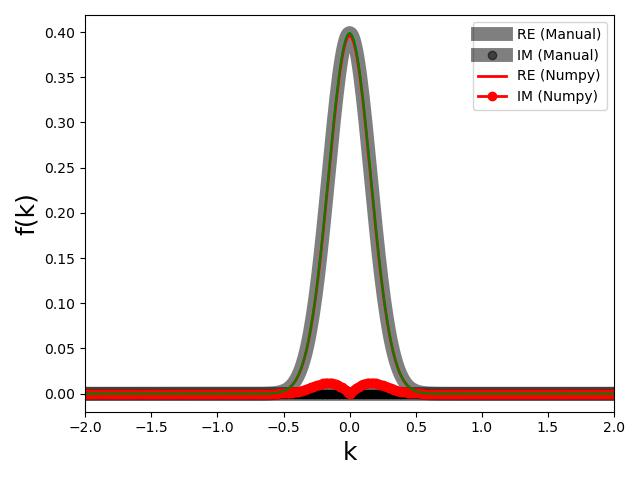
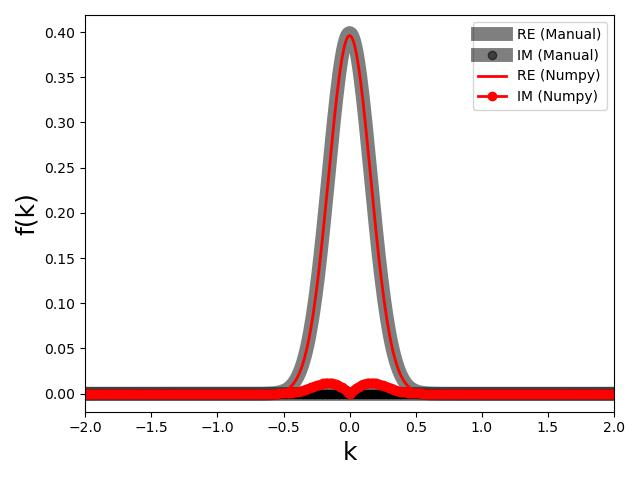
Added clean figures

diff --git a/notes/codes/Chapter_4/1_Fourier_Transform_on_a_Discrete_Grid.py b/notes/codes/Chapter_4/1_Fourier_Transform_on_a_Discrete_Grid.py
@@ -119,6 +119,8 @@ def get_numpy_FT( f_x ):
     return k, f_k
 
 def plot_f_k(k,f_k,k_np,f_k_np,title):
+
+    # Plot a version comparing directly to Numpy
     plt.plot( k, np.abs(f_k.real), "-", c='black', lw=10, alpha=0.5, label="RE (Manual)" )
     plt.plot( k, np.abs(f_k.imag), "o-", c='black', lw=10, alpha=0.5, label="IM (Manual)" )
 
@@ -135,6 +137,24 @@ def plot_f_k(k,f_k,k_np,f_k_np,title):
     plt.tight_layout()
     plt.savefig(f"{DATA_DIR}/f_k_{title}.jpg")
     plt.clf()
+
+
+    # Plot a ''clean'' one without comparing to Numpy
+    plt.plot( k, f_k.real, "-", c='black', lw=4, label="RE" )
+    plt.plot( k, f_k.imag, "-", c='red',   lw=4, label="IM" )
+
+    # Gaussian function in k-space -- Analytic Result
+    #plt.plot( k, np.sqrt(1/2/np.pi) * np.exp(-2 * k**2 * np.pi**2), c="green", label="Gaussian" )
+
+    plt.legend()
+    plt.xlim(-2,2 )
+    plt.xlabel("k", fontsize=18)
+    plt.ylabel("f(k)", fontsize=18)
+    plt.tight_layout()
+    plt.savefig(f"{DATA_DIR}/f_k_{title}_clean.jpg")
+    plt.clf()
+
+
 
 
 
